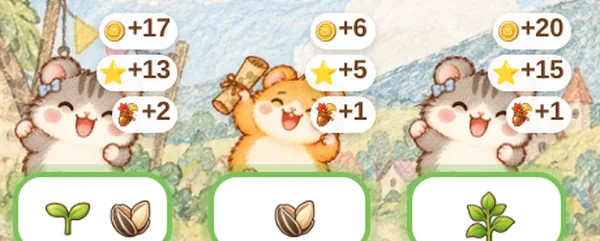
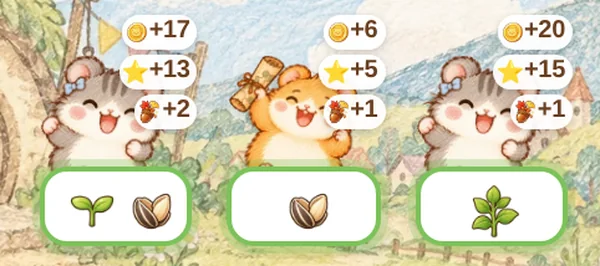
게임 방법 1·2단계 그림을 칸과 주문 카드가 잘리지 않게 다시 자르기
Claude-Session: https://claude.ai/code/session_01Acrtw1y1sfwdgk5jkPBVCL

diff --git a/hamster-village.html b/hamster-village.html
@@ -206,7 +206,7 @@ a:focus-visible,button:focus-visible{outline:3px solid #e39a6a;outline-offset:3p
             <h3>재료 합치기</h3>
             <p>생성기를 눌러 재료를 꺼내고, 같은 재료 두 개를 겹치면 한 단계 위의 재료가 돼요. 해바라기씨가 새싹이 되고, 새싹이 꽃이 돼요.</p>
           </div>
-          <div class="step-img"><img src="assets/hamster/crop-merge.webp?v=2" width="600" height="382" loading="lazy" decoding="async" alt="나무 칸 위에 해바라기씨, 새싹, 도토리가 놓인 머지 보드"></div>
+          <div class="step-img"><img src="assets/hamster/crop-merge.webp?v=4" width="600" height="387" loading="lazy" decoding="async" alt="나무 칸 위에 해바라기씨, 새싹, 도토리가 놓인 머지 보드"></div>
         </li>
         <li class="step">
           <div>
@@ -214,7 +214,7 @@ a:focus-visible,button:focus-visible{outline:3px solid #e39a6a;outline-offset:3p
             <h3>주민의 부탁 들어주기</h3>
             <p>주민들이 필요한 재료를 주문판에 올려요. 알맞은 재료를 만들어 주문판을 누르면 코인과 경험치를 받아요.</p>
           </div>
-          <div class="step-img"><img src="assets/hamster/crop-order.webp?v=2" width="600" height="241" loading="lazy" decoding="async" alt="콩이와 보리가 새싹, 해바라기씨, 꽃봉오리를 부탁하는 주문판 세 장"></div>
+          <div class="step-img"><img src="assets/hamster/crop-order.webp?v=3" width="600" height="266" loading="lazy" decoding="async" alt="콩이와 보리가 새싹, 해바라기씨, 꽃봉오리를 부탁하는 주문판 세 장"></div>
         </li>
         <li class="step">
           <div>
